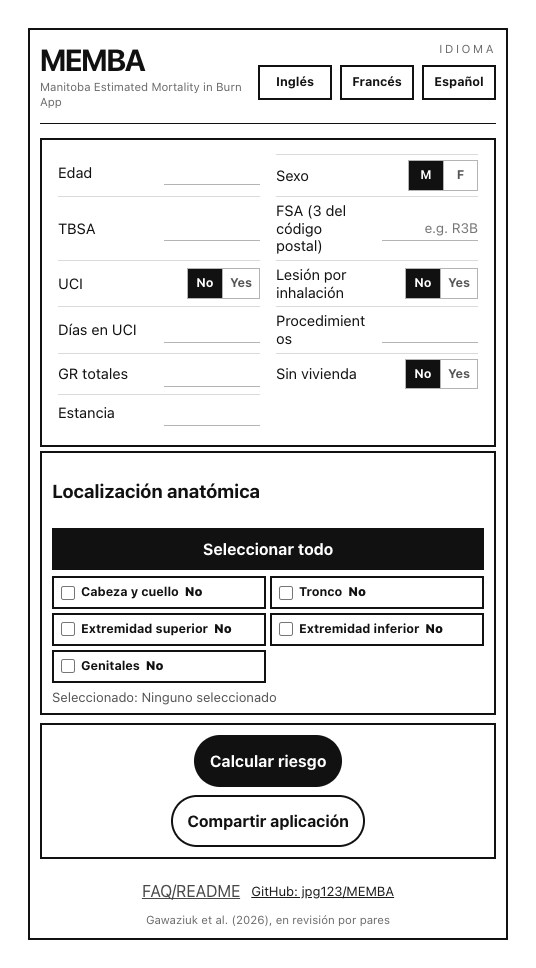
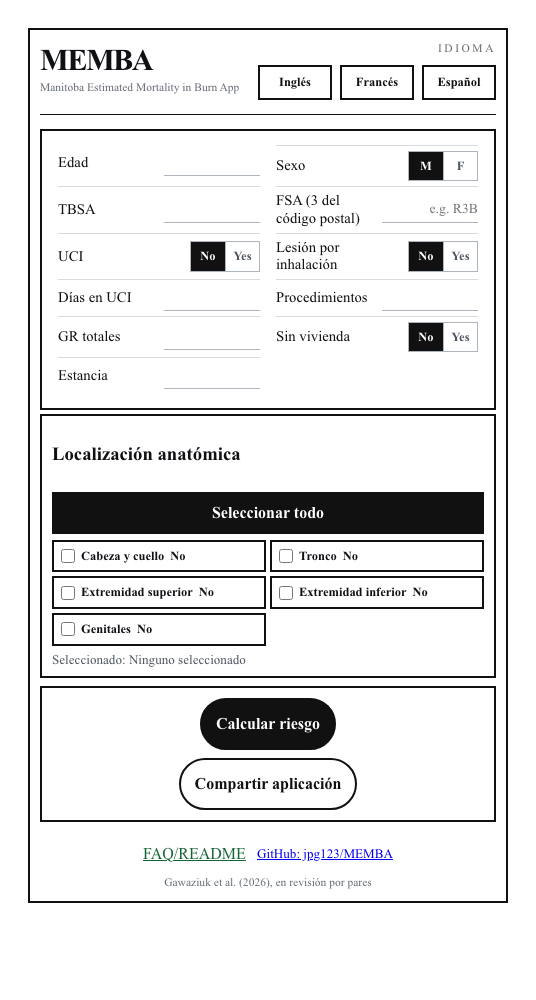
Use Times New Roman throughout app figures

diff --git a/src/index.css b/src/index.css
@@ -1,7 +1,5 @@
 :root {
-  font-family:
-    Inter, ui-sans-serif, system-ui, -apple-system, BlinkMacSystemFont, 'Segoe UI',
-    sans-serif;
+  font-family: 'Times New Roman', Times, serif;
   line-height: 1.5;
   font-weight: 400;
   color: #eaf7f5;
